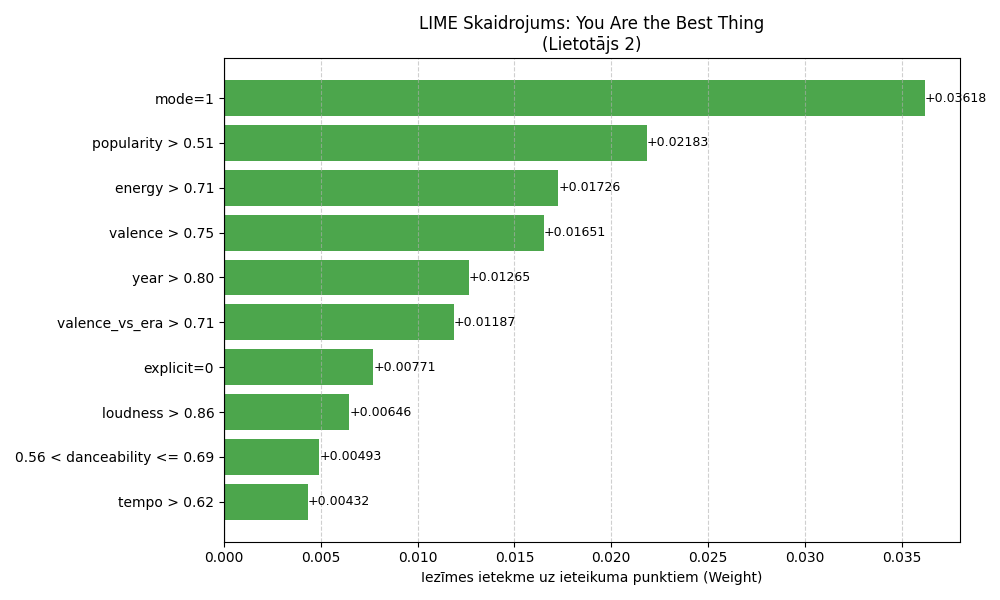
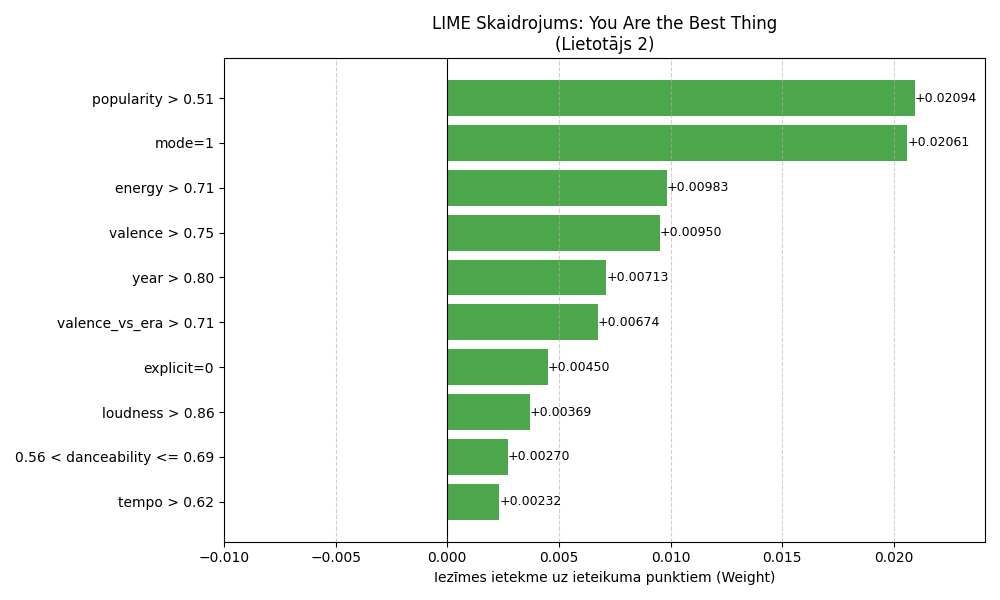
Added results vizualization for SHAP explanation and fixed LIME vizualization plot

diff --git a/SHAP_XAI/shap_main.py b/SHAP_XAI/shap_main.py
@@ -5,6 +5,7 @@ warnings.filterwarnings("ignore")
 
 import sys
 import numpy as np
+import matplotlib.pyplot as plt
 
 import shap_config as config
 sys.modules["config"] = config
@@ -105,6 +106,43 @@ def main():
     print(f"  {'-'*55}")
     for i in top_idx:
         print(f"  {CORE_FEATURES[i]:25s}  {sv1[i]:+.5f}")
+
+    top_features = [CORE_FEATURES[i] for i in top_idx]
+    top_values   = [sv1[i] for i in top_idx]
+
+    # Krāsas
+    colors = ["green" if v > 0 else "red" for v in top_values]
+
+    plt.figure(figsize=(10, 5))
+
+    bars = plt.barh(top_features, top_values, color=colors)
+
+    # Pievieno SHAP vērtības pie stabiņiem
+    for bar, value in zip(bars, top_values):
+        plt.text(
+            value,
+            bar.get_y() + bar.get_height()/2,
+            f"{value:+.5f}",
+            va='center'
+        )
+
+    # Nulles līnija
+    plt.axvline(0, linestyle="--")
+
+    xmin = min(top_values) * 1.35
+    xmax = max(top_values) * 1.15
+
+    plt.xlim(xmin, xmax)
+
+    plt.xlabel("SHAP Vērtība (Iezīmju ieguldījums)")
+    plt.ylabel("Iezīmes")
+    plt.title(f"Top-{config.SHAP_TOP_FEATURES} SHAP Iezīmju ieguldījums")
+
+    # Lielākā vērtība augšā
+    plt.gca().invert_yaxis()
+
+    plt.tight_layout()
+    plt.show()
 
     # 6. Novērtēšanas metrikas
     print("NOVĒRTĒŠANAS METRIKAS")

diff --git a/LIME_XAI/recommender.py b/LIME_XAI/recommender.py
@@ -54,8 +54,8 @@ def make_scorer(user_factors: np.ndarray,
         scores = np.zeros(len(feature_batch))
         
         for i, fvec in enumerate(feature_batch):
-            # Tā kā LIME tagad sūta perturbētus vektorus BEZ žanriem (īsākus),
-            # mums tie ir jāpapildina līdz pilnajam izmēram ar target dziesmas žanriem fona aprēķiniem.
+            # Tā kā LIME tagad sūta perturbētus vektorus bez žanriem (īsākus),
+            # tie ir jāpapildina līdz pilnajam izmēram ar target dziesmas žanriem fona aprēķiniem.
             if len(fvec) < len(feature_names):
                 full_fvec = np.zeros(len(feature_names))
                 full_fvec[:len(fvec)] = fvec
@@ -95,7 +95,7 @@ def build_lime_explainer(feature_matrix: np.ndarray,
     # Atrodam robežu, kur beidzas audio/laikmeta/binārās iezīmes un sākas žanri
     non_genre_indices = [i for i, name in enumerate(feature_names) if not name.startswith("genre_")]
     
-    # Filtrējam fona datus — padodam LIME tikai iezīmes BEZ žanriem
+    # Filtrējam fona datus — padodam LIME tikai iezīmes bez žanriem
     filtered_matrix = feature_matrix[:, non_genre_indices]
     filtered_names = [feature_names[i] for i in non_genre_indices]
 

diff --git a/SHAP_XAI/shap_config.py b/SHAP_XAI/shap_config.py
@@ -13,11 +13,11 @@ RANDOM_SEED    = 42
 TRACK_SAMPLE_N = 20_000
 
 # SHAP parametri
-TARGET_USER         = 1
-TARGET_TRACK        = 18696
+TARGET_USER         = 2
+TARGET_TRACK        = 13674
 SHAP_BACKGROUND_N   = 2000    # fona paraugu skaits SamplingExplainer
 SHAP_TOP_FEATURES   = 8
 SHAP_LOCAL_NSAMPLES = 5000   # Paraugi uz vienu SHAP izsaukumu
 
 # Novērtēšanas parametri
-EVAL_S_TRIALS = 7            # Perturbāciju skaits
+EVAL_S_TRIALS = 1           # Perturbāciju skaits

diff --git a/LIME_XAI/main.py b/LIME_XAI/main.py
@@ -33,6 +33,7 @@ def plot_lime_explanation(explanation, user_id, track_name, out_path):
     
     # Pievienojam vertikālu līniju pie 0
     plt.axvline(x=0, color='black', linestyle='-', linewidth=0.8)
+
     
     plt.xlabel('Iezīmes ietekme uz ieteikuma punktiem (Weight)')
     plt.title(f'LIME Skaidrojums: {track_name}\n(Lietotājs {user_id})')
@@ -44,7 +45,11 @@ def plot_lime_explanation(explanation, user_id, track_name, out_path):
         label_x_pos = width if width > 0 else width - 0.005
         plt.text(label_x_pos, bar.get_y() + bar.get_height()/2, 
                  f'{width:+.5f}', va='center', fontsize=9)
+        
+    xmin = min(weights) * 1.25 if min(weights) < 0 else -0.01
+    xmax = max(weights) * 1.15 if max(weights) > 0 else 0.01
 
+    plt.xlim(xmin, xmax)
     plt.tight_layout()
     plt.savefig(out_path)
     print(f"  [Vizuālais skaidrojums saglabāts]: {out_path}")

diff --git a/SHAP_XAI/shap_data.py b/SHAP_XAI/shap_data.py
@@ -207,8 +207,5 @@ def simulate_users(df: pd.DataFrame,
     print(f"\nLietotāji: {n_users}  |  Mijiedarbības: {len(plays_df):,}")
     print(f"  Vidēji dziesmas uz lietotāju : {len(plays_df)/n_users:.1f}")
     print()
-    print("  Lietotāja 0 preferences (piemērs):")
-    for pref, label in PREF_LABELS.items():
-        print(f"    {label:15s}: {user_prefs[pref][0]}")
 
     return plays_df, R, user_prefs

diff --git a/LIME_XAI/config.py b/LIME_XAI/config.py
@@ -20,7 +20,7 @@ RANDOM_SEED  = 42
 
 # LIME XAI parametri
 
-TARGET_USER  = 1      # lietotājs, kuram tiek skaidrots ieteikums
+TARGET_USER  = 2     # lietotājs, kuram tiek skaidrots ieteikums
 TARGET_TRACK = -1   # dziesma, kurai tiek skaidrots ieteikums
 LIME_TOP_FEATURES = 10
 LIME_NUM_SAMPLES  = 5000

diff --git a/SHAP_XAI/shap_recommender.py b/SHAP_XAI/shap_recommender.py
@@ -16,7 +16,7 @@ CORE_FEATURES = [
     "instrumentalness", "popularity", "duration_min",
     "valence", "acousticness", "liveness", "speechiness",
     "year", "explicit", "mode"
-] + data.ERA_DEV_FEATURES # Pievienojam energy_vs_era, valence_vs_era utt.
+] #+ data.ERA_DEV_FEATURES # Pievienojam energy_vs_era, valence_vs_era
 
 def build_svd_model(R: csr_matrix, n_components=config.SVD_COMPONENTS, seed=config.RANDOM_SEED):
     svd = TruncatedSVD(n_components=n_components, random_state=seed)